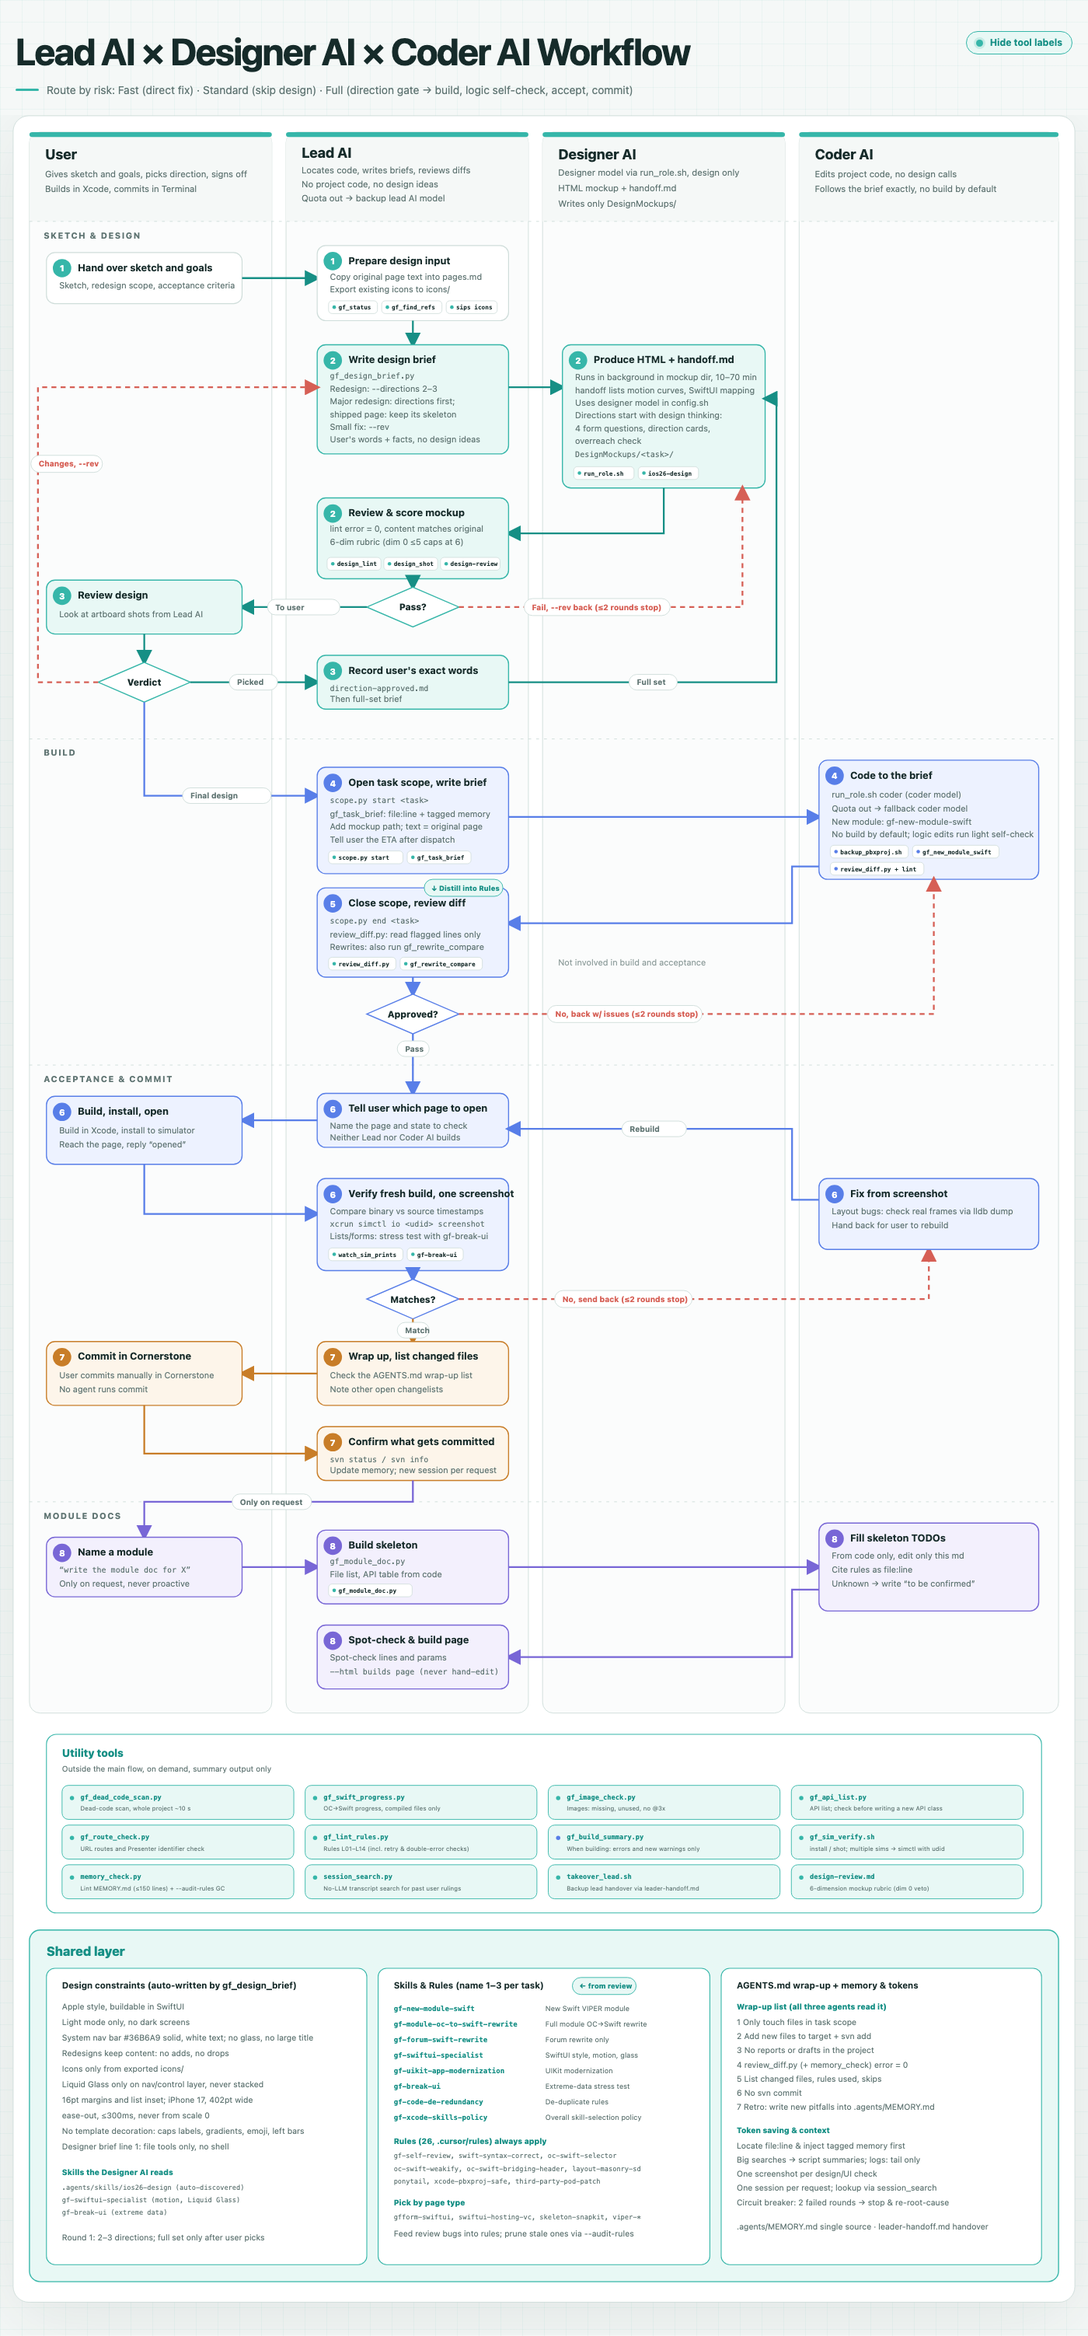
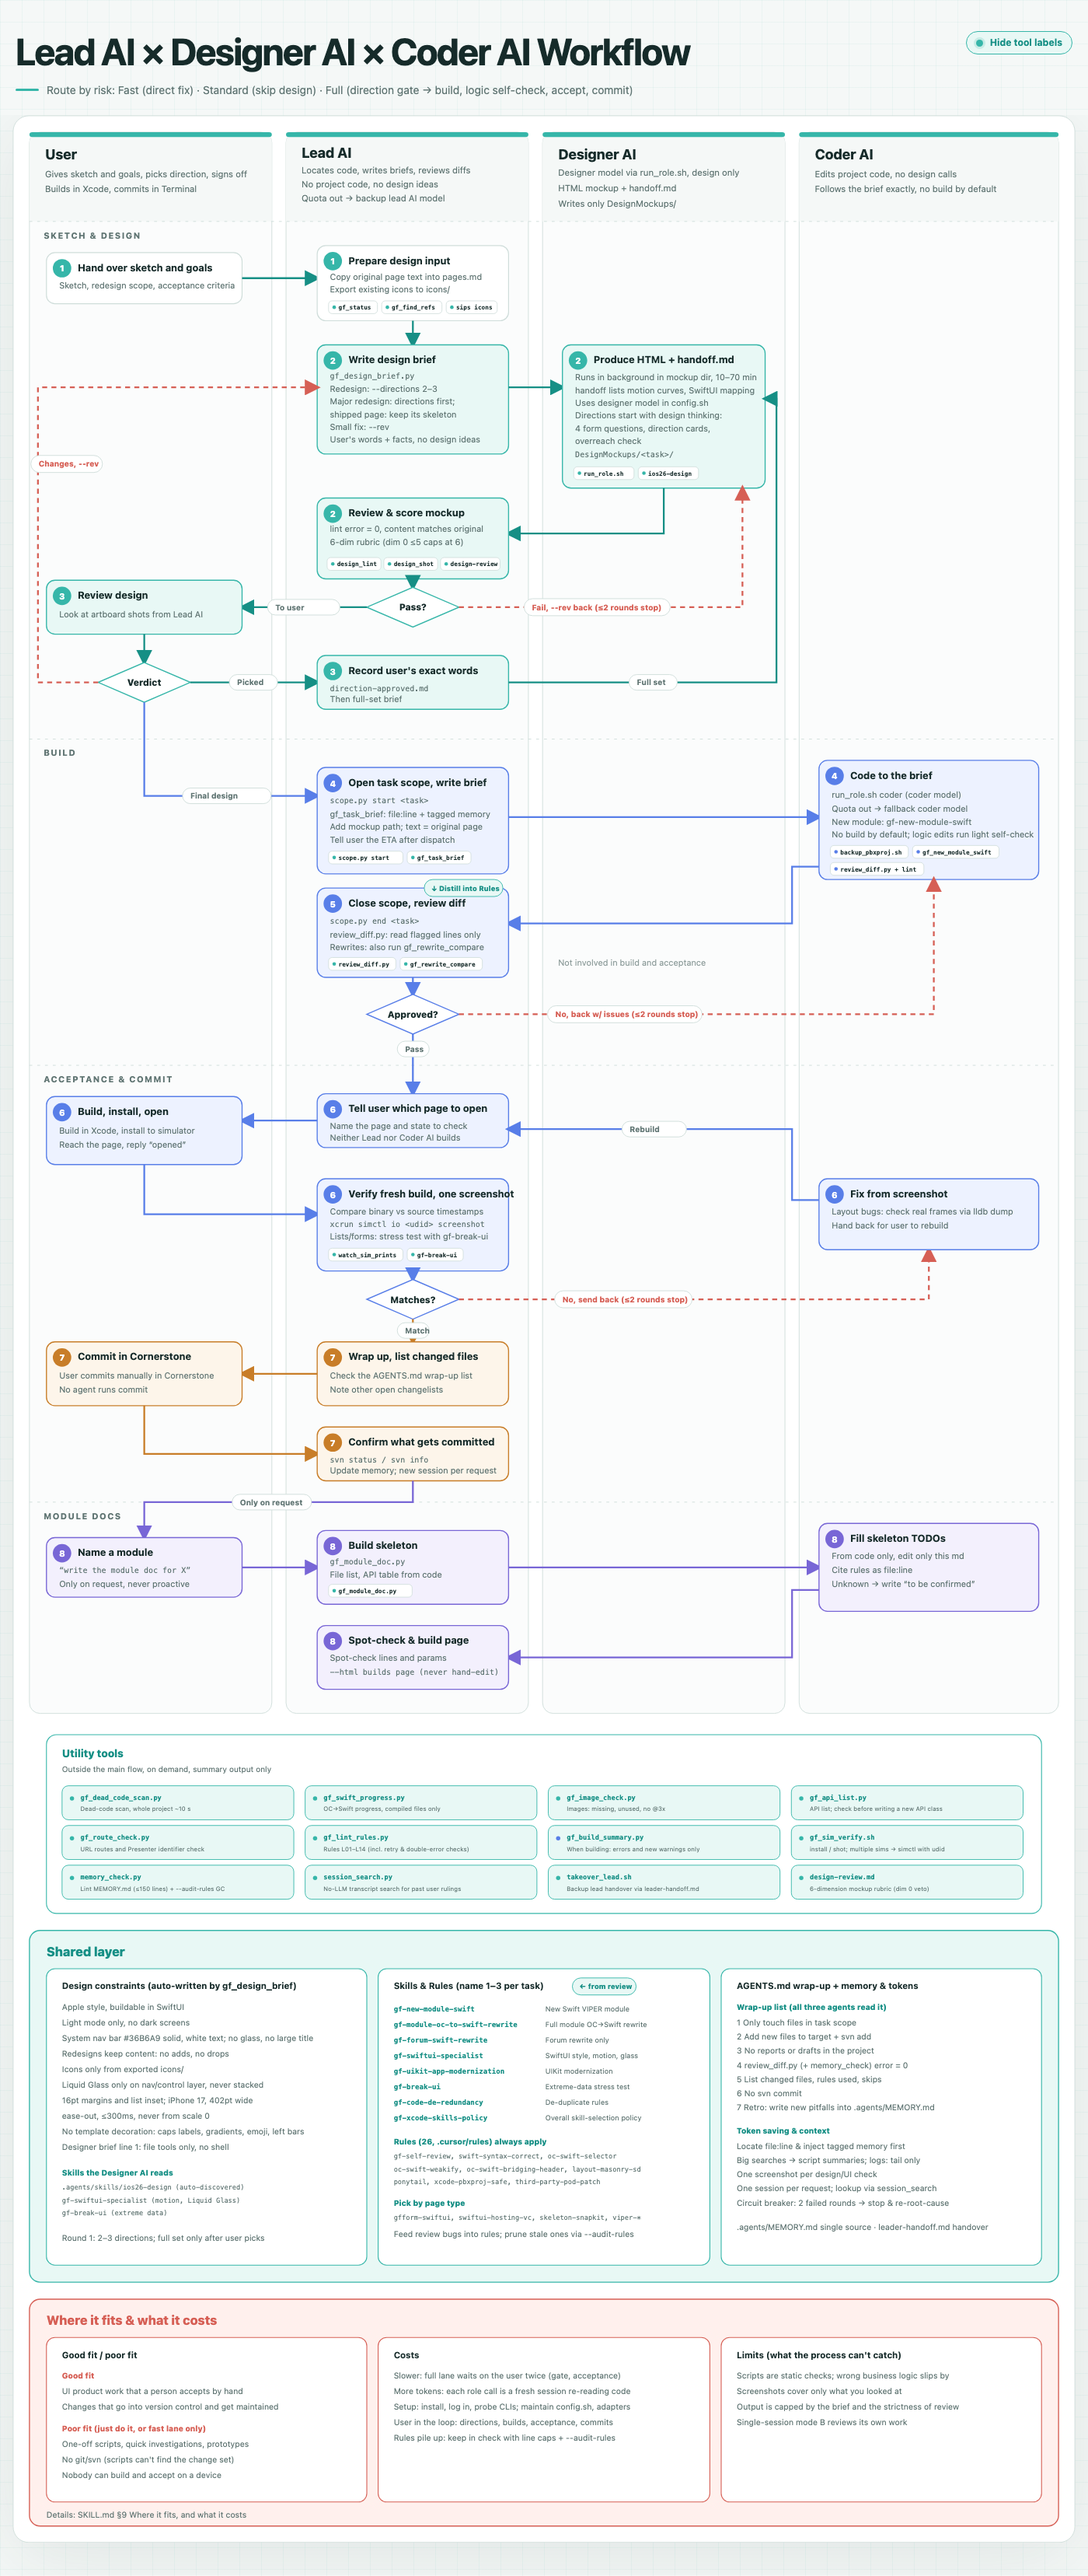
Document where the SOP fits and what it costs
Add SKILL §9 (EN + zh-CN), a Limitations section in README, and a
"Where it fits & what it costs" band at the bottom of both workflow charts.

- Good fit: UI product work that a person accepts by hand, versioned and maintained.
- Poor fit: one-off scripts, quick investigations, prototypes, no git/svn,
  nobody able to build and accept on a device.
- Costs: slower (full lane waits on the user twice), more tokens (fresh
  session per role call), CLI setup and adapter upkeep, user stays in the
  loop, rules pile up.
- Limits: scripts are static checks, screenshots cover only what was
  viewed, output capped by brief and review quality, mode B self-review.

diff --git a/docs/workflow-en.html b/docs/workflow-en.html
@@ -134,6 +134,10 @@
   .board .support-copy { fill: var(--muted); font-size: 11px; }
   .board .skill-line-name { fill: var(--primary-strong); font-size: 10px; font-weight: 800; }
   .board .skill-line { fill: var(--muted); font-size: 10px; }
+  .board .limits { fill: var(--warn-soft); stroke: var(--warn); stroke-width: 1.5; }
+  .board .limits-title { fill: var(--warn); font-size: 18px; font-weight: 800; }
+  .board .limits-card { fill: var(--surface); stroke: var(--warn); stroke-width: 1.2; }
+  .board .limits-group { fill: var(--warn); font-size: 11px; font-weight: 800; }
   .board .rule-group { fill: var(--primary-strong); font-size: 11px; font-weight: 800; }
   .board .rule-list { fill: var(--muted); font-size: 9.5px; }
   .board .audit-badge { fill: var(--primary-soft); stroke: var(--primary); stroke-width: 1; }
@@ -159,7 +163,7 @@
 </header>
 
 <main class="scroll-shell" aria-label="Horizontally scrollable workflow chart">
-  <svg class="board" viewBox="0 0 1500 3086" role="img" aria-labelledby="diagram-title diagram-desc">
+  <svg class="board" viewBox="0 0 1500 3424" role="img" aria-labelledby="diagram-title diagram-desc">
     <title id="diagram-title">How the user, Lead AI, Designer AI and Coder AI work together</title>
     <desc id="diagram-desc">Four vertical lanes: sketch intake, Designer AI drafts and scored review, direction pick, Coder AI build and diff review, simulator acceptance and stress test, commit and retrospective, plus utility tools and a shared rules layer.</desc>
 
@@ -172,7 +176,7 @@
       <marker id="arrow-neutral" markerWidth="9" markerHeight="9" refX="7" refY="4.5" orient="auto"><path d="M0,0 L9,4.5 L0,9 z" fill="var(--muted)"/></marker>
     </defs>
 
-    <rect class="board-bg" x="1" y="1" width="1498" height="3084" rx="22"/>
+    <rect class="board-bg" x="1" y="1" width="1498" height="3422" rx="22"/>
 
     <!-- Four role lanes -->
     <g aria-label="User lane">
@@ -567,6 +571,35 @@
       <text class="shared-copy" x="1022" y="2928">One session per request; lookup via session_search</text>
       <text class="shared-copy" x="1022" y="2948">Circuit breaker: 2 failed rounds → stop &amp; re-root-cause</text>
       <text class="shared-copy" x="1022" y="2982">.agents/MEMORY.md single source · leader-handoff.md handover</text>
+    </g>
+
+    <!-- Limits & costs -->
+    <g aria-label="Where it fits and what it costs">
+      <rect class="limits" x="24" y="3080" width="1452" height="320" rx="15"/>
+      <text class="limits-title" x="48" y="3116">Where it fits &amp; what it costs</text>
+      <rect class="limits-card" x="48" y="3134" width="452" height="232" rx="12"/>
+      <text class="shared-label" x="70" y="3163">Good fit / poor fit</text>
+      <text class="limits-group" x="70" y="3192">Good fit</text>
+      <text class="shared-copy" x="70" y="3214">UI product work that a person accepts by hand</text>
+      <text class="shared-copy" x="70" y="3236">Changes that go into version control and get maintained</text>
+      <text class="limits-group" x="70" y="3266">Poor fit (just do it, or fast lane only)</text>
+      <text class="shared-copy" x="70" y="3288">One-off scripts, quick investigations, prototypes</text>
+      <text class="shared-copy" x="70" y="3310">No git/svn (scripts can't find the change set)</text>
+      <text class="shared-copy" x="70" y="3332">Nobody can build and accept on a device</text>
+      <rect class="limits-card" x="516" y="3134" width="468" height="232" rx="12"/>
+      <text class="shared-label" x="538" y="3163">Costs</text>
+      <text class="shared-copy" x="538" y="3192">Slower: full lane waits on the user twice (gate, acceptance)</text>
+      <text class="shared-copy" x="538" y="3214">More tokens: each role call is a fresh session re-reading code</text>
+      <text class="shared-copy" x="538" y="3236">Setup: install, log in, probe CLIs; maintain config.sh, adapters</text>
+      <text class="shared-copy" x="538" y="3258">User in the loop: directions, builds, acceptance, commits</text>
+      <text class="shared-copy" x="538" y="3280">Rules pile up: keep in check with line caps + --audit-rules</text>
+      <rect class="limits-card" x="1000" y="3134" width="452" height="232" rx="12"/>
+      <text class="shared-label" x="1022" y="3163">Limits (what the process can't catch)</text>
+      <text class="shared-copy" x="1022" y="3192">Scripts are static checks; wrong business logic slips by</text>
+      <text class="shared-copy" x="1022" y="3214">Screenshots cover only what you looked at</text>
+      <text class="shared-copy" x="1022" y="3236">Output is capped by the brief and the strictness of review</text>
+      <text class="shared-copy" x="1022" y="3258">Single-session mode B reviews its own work</text>
+      <text class="shared-copy" x="48" y="3388">Details: SKILL.md §9 Where it fits, and what it costs</text>
     </g>
   </svg>
 </main>

diff --git a/docs/workflow.html b/docs/workflow.html
@@ -135,6 +135,10 @@
   .board .support-copy { fill: var(--muted); font-size: 11px; }
   .board .skill-line-name { fill: var(--primary-strong); font-size: 10px; font-weight: 800; }
   .board .skill-line { fill: var(--muted); font-size: 10px; }
+  .board .limits { fill: var(--warn-soft); stroke: var(--warn); stroke-width: 1.5; }
+  .board .limits-title { fill: var(--warn); font-size: 18px; font-weight: 800; }
+  .board .limits-card { fill: var(--surface); stroke: var(--warn); stroke-width: 1.2; }
+  .board .limits-group { fill: var(--warn); font-size: 11px; font-weight: 800; }
   .board .rule-group { fill: var(--primary-strong); font-size: 11px; font-weight: 800; }
   .board .rule-list { fill: var(--muted); font-size: 9.5px; }
   .board .audit-badge { fill: var(--primary-soft); stroke: var(--primary); stroke-width: 1; }
@@ -160,7 +164,7 @@
 </header>
 
 <main class="scroll-shell" aria-label="可横向滚动的协作流程图">
-  <svg class="board" viewBox="0 0 1500 3086" role="img" aria-labelledby="diagram-title diagram-desc">
+  <svg class="board" viewBox="0 0 1500 3424" role="img" aria-labelledby="diagram-title diagram-desc">
     <title id="diagram-title">用户、大脑AI、设计AI、代码AI 的协作流程</title>
     <desc id="diagram-desc">四条纵向泳道：草稿图整理、设计AI 出稿与审稿打分、方向确认、代码AI 开发与审 diff、模拟器验收与压测、提交复盘，以及专项工具和共享规则层。</desc>
 
@@ -173,7 +177,7 @@
       <marker id="arrow-neutral" markerWidth="9" markerHeight="9" refX="7" refY="4.5" orient="auto"><path d="M0,0 L9,4.5 L0,9 z" fill="var(--muted)"/></marker>
     </defs>
 
-    <rect class="board-bg" x="1" y="1" width="1498" height="3084" rx="22"/>
+    <rect class="board-bg" x="1" y="1" width="1498" height="3422" rx="22"/>
 
     <!-- Four role lanes -->
     <g aria-label="用户泳道">
@@ -566,6 +570,35 @@
       <text class="shared-copy" x="1022" y="2928">一个需求一个会话，历史口径用 session_search</text>
       <text class="shared-copy" x="1022" y="2948">连续 2 轮被打回立即熔断，重查根因或升级问用户</text>
       <text class="shared-copy" x="1022" y="2982">.agents/MEMORY.md 唯一记忆 · leader-handoff.md 主控交接</text>
+    </g>
+
+    <!-- Limits & costs -->
+    <g aria-label="适用边界与代价">
+      <rect class="limits" x="24" y="3080" width="1452" height="320" rx="15"/>
+      <text class="limits-title" x="48" y="3116">适用边界与代价</text>
+      <rect class="limits-card" x="48" y="3134" width="452" height="232" rx="12"/>
+      <text class="shared-label" x="70" y="3163">适合 / 不适合</text>
+      <text class="limits-group" x="70" y="3192">适合</text>
+      <text class="shared-copy" x="70" y="3214">有界面、要人验收的产品迭代</text>
+      <text class="shared-copy" x="70" y="3236">改动进版本库、有人长期维护</text>
+      <text class="limits-group" x="70" y="3266">不适合（直接做，或只走快车道）</text>
+      <text class="shared-copy" x="70" y="3288">一次性脚本、临时排查、原型试错</text>
+      <text class="shared-copy" x="70" y="3310">没有 git/svn 的目录（脚本算不出改动范围）</text>
+      <text class="shared-copy" x="70" y="3332">没人能编译、上设备验收</text>
+      <rect class="limits-card" x="516" y="3134" width="468" height="232" rx="12"/>
+      <text class="shared-label" x="538" y="3163">代价</text>
+      <text class="shared-copy" x="538" y="3192">慢：重装道要停下等用户两次（方向门、验收）</text>
+      <text class="shared-copy" x="538" y="3214">费 token：每次调起角色都是新会话，重读任务书和代码</text>
+      <text class="shared-copy" x="538" y="3236">接入：装 CLI、登录、探活，维护 config.sh 和适配器</text>
+      <text class="shared-copy" x="538" y="3258">用户全程参与：选方向、编译、验收、提交</text>
+      <text class="shared-copy" x="538" y="3280">规则越积越多：靠行数上限 + --audit-rules 控制</text>
+      <rect class="limits-card" x="1000" y="3134" width="452" height="232" rx="12"/>
+      <text class="shared-label" x="1022" y="3163">局限（流程管不到的）</text>
+      <text class="shared-copy" x="1022" y="3192">脚本只做静态检查，看不出业务逻辑写错</text>
+      <text class="shared-copy" x="1022" y="3214">截图只覆盖看到的屏和数据，压测补不全</text>
+      <text class="shared-copy" x="1022" y="3236">结果上限 = 任务书质量 + 主控审得严不严</text>
+      <text class="shared-copy" x="1022" y="3258">单会话模式 B 自己审自己，独立性最弱</text>
+      <text class="shared-copy" x="48" y="3388">详见 SKILL.zh-CN.md §9 适用边界与代价</text>
     </g>
   </svg>
 </main>

diff --git a/README.md b/README.md
@@ -87,6 +87,16 @@ Without a CLI, what you get depends on where the lead runs:
 | A coding agent that can read/write files and run commands (Claude Code, Cursor, Codex …) | Everything works; the scripts only need Python and git/svn |
 | Web chat with no file access | Process only (direction gate, brief template, review checklist); checks are done by hand |
 
+## Limitations and costs
+
+- **Not for everything**: skip it for one-off scripts, quick investigations, prototypes, folders without git/svn, or when nobody can build and accept on a device.
+- **Slower and more tokens** than one agent editing directly: the full lane waits on the user twice, and each role call is a fresh session that re-reads the brief and code.
+- **Setup and upkeep**: CLIs to install, log in and probe; `config.sh`, `AGENTS.md` and adapters to maintain.
+- **The user stays in the loop**: directions, builds, acceptance and commits are theirs.
+- **Static checks only**: scripts and screenshots don't prove business logic is right; output is only as good as the brief and the review.
+
+Details: `SKILL.md` §9.
+
 ## Adding a CLI
 
 Write `scripts/adapters/<name>.sh` with `ADAPTER_QUOTA_RE` and an `adapter_run <model> <workdir> <extra_dir> <prompt>` function (~20 lines; see `scripts/adapters/README.md`), set `CODER_ADAPTER=<name>`, run `--probe`.
@@ -99,6 +109,7 @@ Write `scripts/adapters/<name>.sh` with `ADAPTER_QUOTA_RE` and an `adapter_run <
 - **Prune gates with data**: log `rounds N · found by` on every acceptance; after 1–2 weeks drop gates that never catch anything; no new process rules until the data exists.
 - **Keep the SOP small**: AGENTS.md line cap (move details into skills/rules), rules audit after every milestone, and `scripts/handoff_rotate.py` keeps only the last 7 days of `leader-handoff.md`.
 - Role table: the lead's "no product code edits" now notes the fast-lane exception; two new pitfalls.
+- **Where it fits, and what it costs**: new `SKILL.md` §9 (good/poor fit, costs, limits), a Limitations section here, and a matching band at the bottom of the workflow chart.
 
 ### 2026-11-23
 - **Design review rubric (`references/design-review.md`)**: 6-dimension 1–10 weighted scoring (dim 0 concept veto caps total at 6.0), content-parity hard gate, and "report violations only, no design fixes from lead" boundary.
@@ -143,6 +154,12 @@ MIT
   ![三 AI 协作流程](docs/workflow.png)
 
   交互版 https://happyiosyuan.github.io/lead-coder-designer/workflow.html 。图里 `gf_*` 开头的是作者 iOS 项目自己的辅助脚本，仅作示例。
+- **边界与代价**（详见 `SKILL.zh-CN.md` §9）：
+  - 不适合一次性脚本、临时排查、原型验证、没有 git/svn 的目录，以及没人能编译、上设备验收的场景；
+  - 比单代理直接改更慢、更费 token：重装道要等用户两次，每次调起角色都是新会话，要重读任务书和代码；
+  - 有接入和维护成本：装 CLI、登录、探活，维护 `config.sh`、`AGENTS.md` 和适配器；
+  - 用户要全程参与：选方向、编译、验收、提交都在用户手里；
+  - 脚本和截图只是静态检查，证明不了业务逻辑对；结果上限取决于任务书和审查质量。
 - `SKILL.md` 是英文版，`SKILL.zh-CN.md` 是中文版（想让代理读中文，把它改名为 `SKILL.md`）；模板和参考文档目前是中文；`examples/ios-uikit-swiftui/` 是一个真实 iOS 项目（已脱敏）的接入示例。
 
 ### 更新记录
@@ -153,6 +170,7 @@ MIT
 - **用数据删关卡**：每次验收记「轮次 N · 发现者」，攒 1–2 周后删掉从不拦截的关卡；攒够数据前不新增流程规则。
 - **控制 SOP 体量**：AGENTS.md 设行数上限（细节挪进 skill / 规则）、每个里程碑后审计规则、`scripts/handoff_rotate.py` 让交接文件只留最近 7 天。
 - 分工表注明主控「不改业务代码」的快车道例外；踩坑表新增 2 条。
+- **适用边界与代价**：`SKILL.zh-CN.md` 新增 §9（适合/不适合、代价、局限），README 补对应小节，流程图底部加同名区块。
 
 #### 2026-11-23
 - **界面设计 6 维打分表（`references/design-review.md`）**：方向稿审设计思路与 0/1 维，完整稿 / rev 按 6 维 1–10 分加权打分（0 维立意 ≤5 封顶 6 分）、内容一致性一票打回，主控只指标准与数值不出设计方案。

diff --git a/SKILL.md b/SKILL.md
@@ -120,6 +120,29 @@ Cost: in mode B the reviewer is the author and is likely to miss its own mistake
 | A coding agent that can read/write files and run commands (Claude Code, Cursor, Codex …) | Everything works: `scope.py`, `review_diff.py` and `design_lint.py` need only Python and git/svn |
 | Web chat with no file access | Process only (direction gate, brief template, review checklist); scripts can't run, checks are done by hand |
 
+## 9. Where it fits, and what it costs
+
+**Good fit**: product work with a UI that someone accepts by hand (app / web pages, forms, lists, redesigns); changes that go into version control and get maintained; a user willing to spend time at the direction gate and at acceptance.
+
+**Poor fit** (just do it, or use the fast lane only):
+- One-off scripts, data processing, quick investigations: no direction to choose, nobody to accept.
+- Folders without version control: `scope.py` and `review_diff.py` rely on git/svn to find the change set; without it only the manual checklist is left.
+- Pure exploration or prototypes: speed matters more, and three gates multiply the cost of each try.
+- A user who can't build or can't look at a device: step ⑧ can't happen, so half the process is gone.
+
+**Costs**:
+- **Slower**: the full lane stops at least twice for the user (direction gate, acceptance); brief, review and wrap-up are extra steps. Even a fast-lane fix needs locating plus `review_diff.py`.
+- **More tokens**: every coder/designer call is a fresh session that re-reads the brief and the relevant code; the lead's diff review and screenshot checks add more. `references/token-saving.md` reduces this, but not to the level of one agent editing directly.
+- **Setup and upkeep**: multi-CLI mode means installing, logging in and probing each CLI, filling `config.sh`, and writing `AGENTS.md`; quotas, CLI upgrades and changed error formats mean maintaining the adapters.
+- **The user has to take part**: picking directions, building (per project convention), on-device acceptance and committing are all the user's; when the user is away, work stops.
+- **Rules pile up**: every mistake tempts a new rule and the SOP gets heavier. Keep it in check with the AGENTS.md line cap, `memory_check.py --audit-rules`, and pruning gates by data.
+
+**Limits** (what the process can't catch):
+- The scripts are static checks (stats, leftovers, out-of-scope files, mockup rules); they can't tell that business logic is wrong.
+- Screenshot acceptance covers only the screens and data you looked at; worst-case data stress tests cover some of the rest, not all.
+- Results are capped by the quality of the brief and the strictness of the lead's review; a wrong brief gets implemented faithfully.
+- Single-session mode B reviews its own work (see §8), the weakest form of independence.
+
 ## File index
 
 | Path | Purpose |
